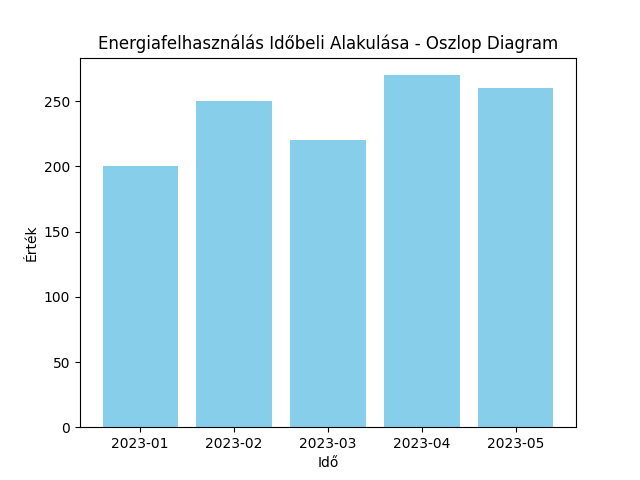
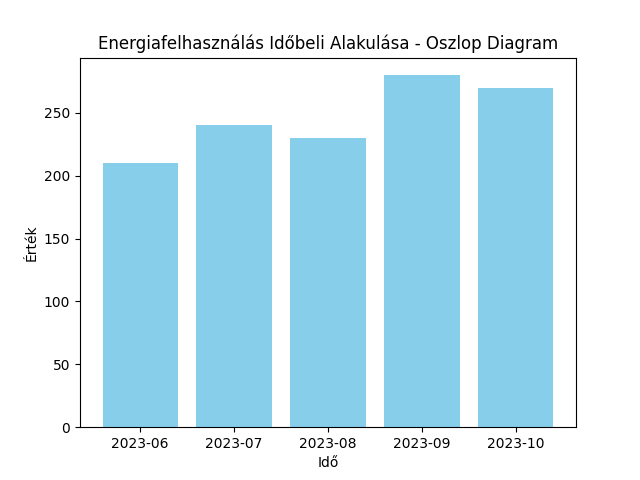
chart készítés és a szükséges adatok külön mozgatása a routoktól

diff --git a/app/static/templates/regression_chart.html b/app/static/templates/regression_chart.html
@@ -1,0 +1,14 @@
+<!DOCTYPE html>
+<html lang="en">
+<head>
+    <meta charset="UTF-8">
+    <meta name="viewport" content="width=device-width, initial-scale=1.0">
+    <link rel="stylesheet" href="{{ url_for('static', filename='css/style.css') }}">
+    <title>Lineáris regresszió</title>
+</head>
+<body>
+    <h1>Lineáris regresszió</h1>
+    <img src="{{ url_for('static', filename='images/regression_chart.png') }}" alt="Lineáris regresszió diagram">
+    <a href="{{ url_for('form4') }}">Vissza</a>
+</body>
+</html>

diff --git a/app/static/templates/bar_chart.html b/app/static/templates/bar_chart.html
@@ -1,0 +1,14 @@
+<!DOCTYPE html>
+<html lang="en">
+<head>
+    <meta charset="UTF-8">
+    <meta name="viewport" content="width=device-width, initial-scale=1.0">
+    <link rel="stylesheet" href="{{ url_for('static', filename='css/style.css') }}">
+    <title>Oszlop diagram</title>
+</head>
+<body>
+    <h1>Oszlop diagram</h1>
+    <img src="{{ url_for('static', filename='images/bar_chart.png') }}" alt="Oszlop diagram">
+    <a href="{{ url_for('form4') }}">Vissza</a>
+</body>
+</html>

diff --git a/app/static/templates/line_chart.html b/app/static/templates/line_chart.html
@@ -1,0 +1,14 @@
+<!DOCTYPE html>
+<html lang="en">
+<head>
+    <meta charset="UTF-8">
+    <meta name="viewport" content="width=device-width, initial-scale=1.0">
+    <link rel="stylesheet" href="{{ url_for('static', filename='css/style.css') }}">
+    <title>Vonal diagram</title>
+</head>
+<body>
+    <h1>Vonal diagram</h1>
+    <img src="{{ url_for('static', filename='images/line_chart.png') }}" alt="Vonal diagram">
+    <a href="{{ url_for('form4') }}">Vissza</a>
+</body>
+</html>

diff --git a/app/routes.py b/app/routes.py
@@ -1,15 +1,5 @@
-from flask import render_template, send_file
-import pandas as pd
-import matplotlib.pyplot as plt
-import numpy as np
-from sklearn.linear_model import LinearRegression
-
-# Sample data for the charts
-data = {'Date': ['2023-01', '2023-02', '2023-03', '2023-04', '2023-05'],
-        'Value': [200, 250, 220, 270, 260]}
-df = pd.DataFrame(data)
-df['Date'] = pd.to_datetime(df['Date'])
-df['Date_ordinal'] = df['Date'].map(pd.Timestamp.toordinal)
+from flask import render_template
+from app.chart_utils import create_line_chart, create_bar_chart, create_regression_chart
 
 # Register the routes
 def register(app):
@@ -36,55 +26,15 @@ def register(app):
 
     @app.route('/line_chart')
     def line_chart():
-        fig, ax = plt.subplots()
-        ax.plot(df['Date'], df['Value'], marker='o', color='b')
-        ax.set_title('Energiafelhasználás Időbeli Alakulása - Vonal Diagram')
-        ax.set_xlabel('Idő')
-        ax.set_ylabel('Érték')
-        fig.savefig('app/static/images/line_chart.png')  # Save in app/static
-        plt.close(fig)
-        return '''
-            <h1>Vonal diagram</h1>
-            <img src="/static/images/line_chart.png" alt="Vonal diagram">  <!-- Use /static/images/... -->
-            <a href="/form4">Vissza</a>
-        '''
+        create_line_chart()
+        return render_template('line_chart.html')
 
-    # Bar chart route
     @app.route('/bar_chart')
     def bar_chart():
-        fig, ax = plt.subplots()
-        ax.bar(df['Date'].dt.strftime('%Y-%m'), df['Value'], color='skyblue')
-        ax.set_title('Energiafelhasználás Időbeli Alakulása - Oszlop Diagram')
-        ax.set_xlabel('Idő')
-        ax.set_ylabel('Érték')
-        fig.savefig('app/static/images/bar_chart.png')
-        plt.close(fig)
-        return '''
-            <h1>Oszlop diagram</h1>
-            <img src="/static/images/bar_chart.png" alt="Oszlop diagram">
-            <a href="/form4">Vissza</a>
-        '''
+        create_bar_chart()
+        return render_template('bar_chart.html')
 
-    # Regression chart route
     @app.route('/regression_chart')
     def regression_chart():
-        X = df[['Date_ordinal']]
-        y = df['Value']
-        model = LinearRegression()
-        model.fit(X, y)
-        y_pred = model.predict(X)
-
-        fig, ax = plt.subplots()
-        ax.scatter(df['Date'], df['Value'], color='blue', label='Eredeti Adatok')
-        ax.plot(df['Date'], y_pred, color='red', label='Lineáris Regresszió')
-        ax.set_title('Lineáris Regresszió az Energiafelhasználás Időbeli Alakulására')
-        ax.set_xlabel('Idő')
-        ax.set_ylabel('Érték')
-        ax.legend()
-        fig.savefig('app/static/images/regression_chart.png')
-        plt.close(fig)
-        return '''
-            <h1>Lineáris regresszió</h1>
-            <img src="/static/images/regression_chart.png" alt="Lineáris regresszió diagram">
-            <a href="/form4">Vissza</a>
-        '''
+        create_regression_chart()
+        return render_template('regression_chart.html')

diff --git a/app/chart_utils.py b/app/chart_utils.py
@@ -1,0 +1,43 @@
+import matplotlib.pyplot as plt
+from app.data_processing.line_chart_data import get_line_chart_data
+from app.data_processing.bar_chart_data import get_bar_chart_data
+from app.data_processing.regression_chart_data import get_regression_chart_data
+from sklearn.linear_model import LinearRegression
+
+def create_line_chart():
+    df = get_line_chart_data()
+    fig, ax = plt.subplots()
+    ax.plot(df['Date'], df['Value'], marker='o', color='b')
+    ax.set_title('Energiafelhasználás Időbeli Alakulása - Vonal Diagram')
+    ax.set_xlabel('Idő')
+    ax.set_ylabel('Érték')
+    fig.savefig('app/static/images/line_chart.png')
+    plt.close(fig)
+
+def create_bar_chart():
+    df = get_bar_chart_data()
+    fig, ax = plt.subplots()
+    ax.bar(df['Date'].dt.strftime('%Y-%m'), df['Value'], color='skyblue')
+    ax.set_title('Energiafelhasználás Időbeli Alakulása - Oszlop Diagram')
+    ax.set_xlabel('Idő')
+    ax.set_ylabel('Érték')
+    fig.savefig('app/static/images/bar_chart.png')
+    plt.close(fig)
+
+def create_regression_chart():
+    df = get_regression_chart_data()
+    X = df[['Date_ordinal']]
+    y = df['Value']
+    model = LinearRegression()
+    model.fit(X, y)
+    y_pred = model.predict(X)
+
+    fig, ax = plt.subplots()
+    ax.scatter(df['Date'], df['Value'], color='blue', label='Eredeti Adatok')
+    ax.plot(df['Date'], y_pred, color='red', label='Lineáris Regresszió')
+    ax.set_title('Lineáris Regresszió az Energiafelhasználás Időbeli Alakulására')
+    ax.set_xlabel('Idő')
+    ax.set_ylabel('Érték')
+    ax.legend()
+    fig.savefig('app/static/images/regression_chart.png')
+    plt.close(fig)

diff --git a/app/data_processing/regression_chart_data.py b/app/data_processing/regression_chart_data.py
@@ -1,0 +1,9 @@
+import pandas as pd
+
+def get_regression_chart_data():
+    data = {'Date': ['2023-11', '2023-12', '2024-01', '2024-02', '2024-03'],
+            'Value': [215, 245, 235, 285, 275]}
+    df = pd.DataFrame(data)
+    df['Date'] = pd.to_datetime(df['Date'])
+    df['Date_ordinal'] = df['Date'].map(pd.Timestamp.toordinal)
+    return df

diff --git a/app/data_processing/line_chart_data.py b/app/data_processing/line_chart_data.py
@@ -1,0 +1,8 @@
+import pandas as pd
+
+def get_line_chart_data():
+    data = {'Date': ['2023-01', '2023-02', '2023-03', '2023-04', '2023-05'],
+            'Value': [200, 250, 220, 270, 260]}
+    df = pd.DataFrame(data)
+    df['Date'] = pd.to_datetime(df['Date'])
+    return df

diff --git a/app/data_processing/bar_chart_data.py b/app/data_processing/bar_chart_data.py
@@ -1,0 +1,8 @@
+import pandas as pd
+
+def get_bar_chart_data():
+    data = {'Date': ['2023-06', '2023-07', '2023-08', '2023-09', '2023-10'],
+            'Value': [210, 240, 230, 280, 270]}
+    df = pd.DataFrame(data)
+    df['Date'] = pd.to_datetime(df['Date'])
+    return df

diff --git a/Main.py b/Main.py
@@ -31,7 +31,6 @@ else:
 import requests
 import yaml
 from flask import Flask
-import matplotlib
 from app import routes  # A route-ok importálása az app könyvtárból
 
 # Forrás URL-ek beolvasása

diff --git a/app/data_processing/__init__.py b/app/data_processing/__init__.py
@@ -1,0 +1,1 @@
+#Init file
